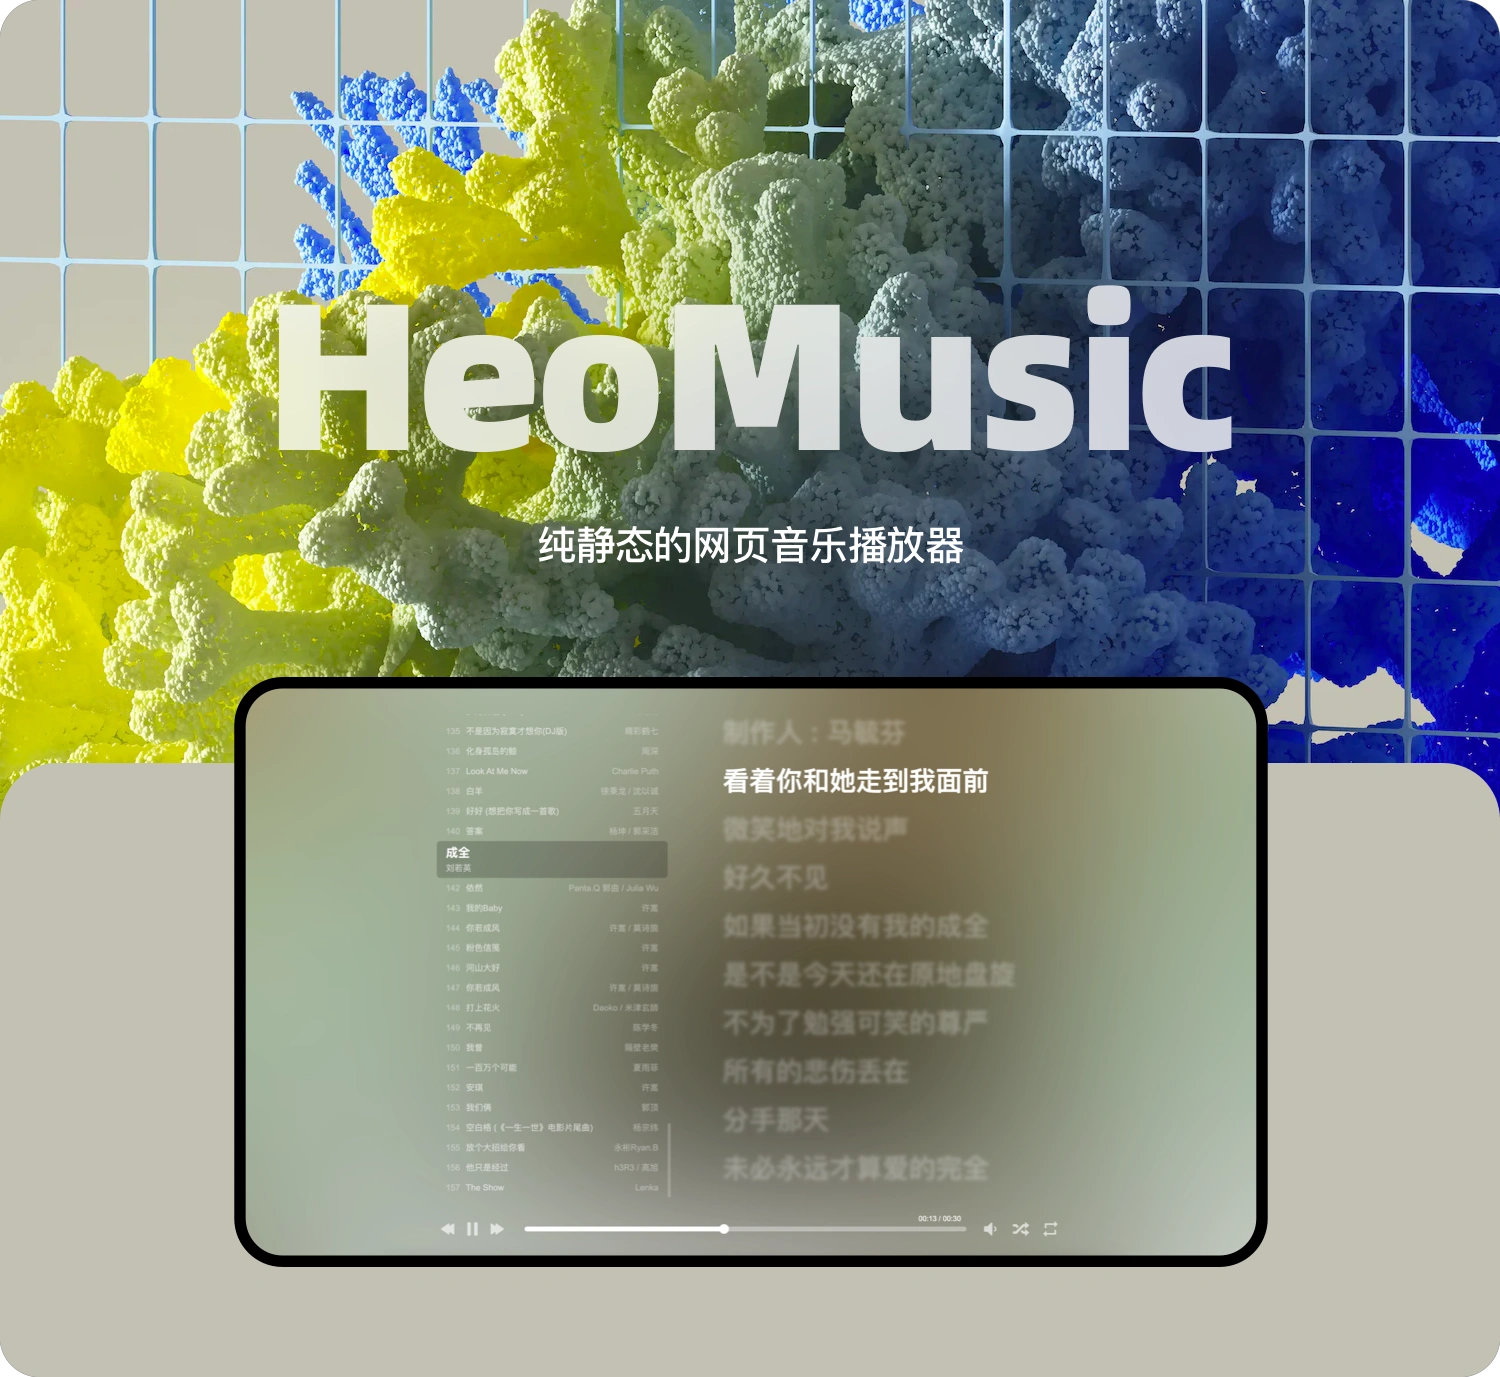
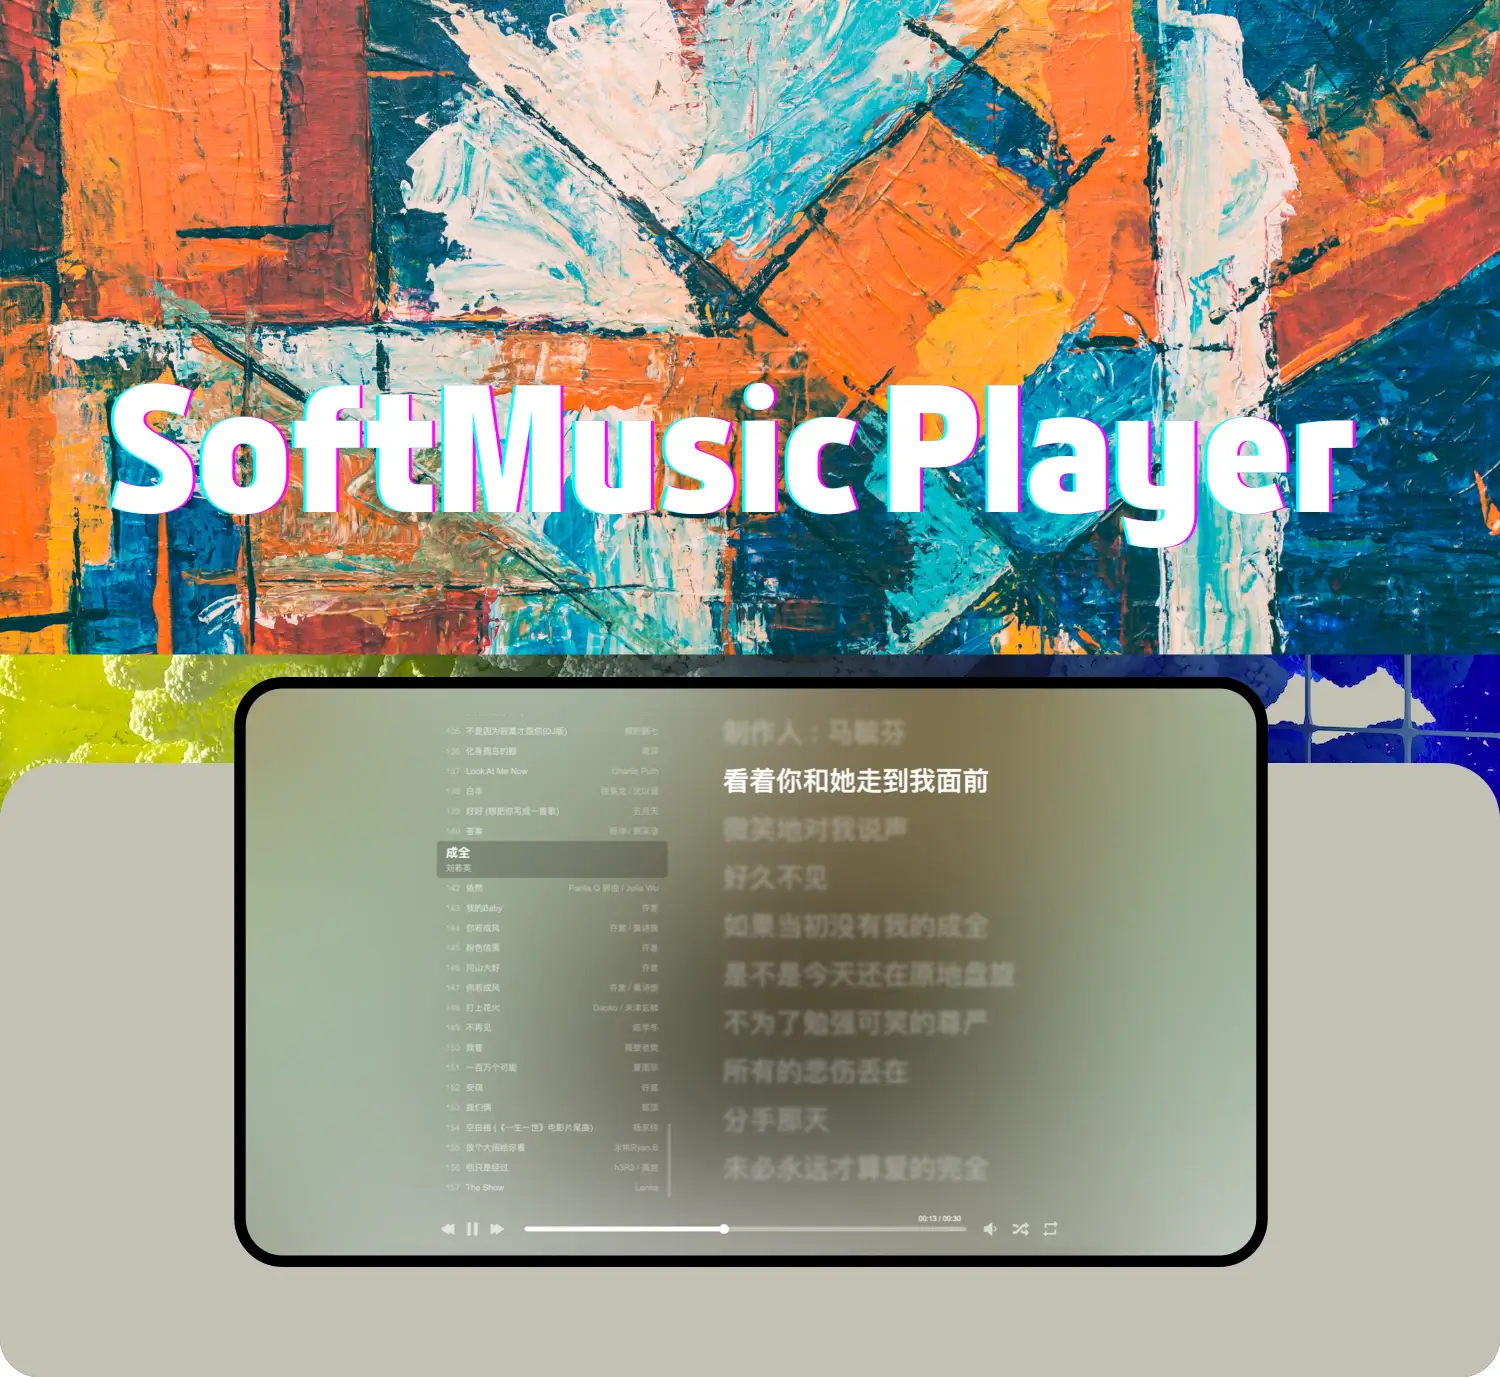
修复

diff --git a/index.html b/index.html
@@ -4,7 +4,7 @@
   <meta charset="UTF-8">
   <meta http-equiv="X-UA-Compatible" content="IE=edge">
   <meta name="viewport" content="width=device-width, initial-scale=1.0">
-  <title>HeoMusic - 用音乐感染人心</title>
+  <title>SoftMusic - 用音乐感染人心</title>
   <link rel="stylesheet" type="text/css" href="./css/APlayer.min.css">
   <link rel="stylesheet" type="text/css" href="./main.css">
   <link rel="icon" type="image/x-icon" href="./img/icon.webp">
